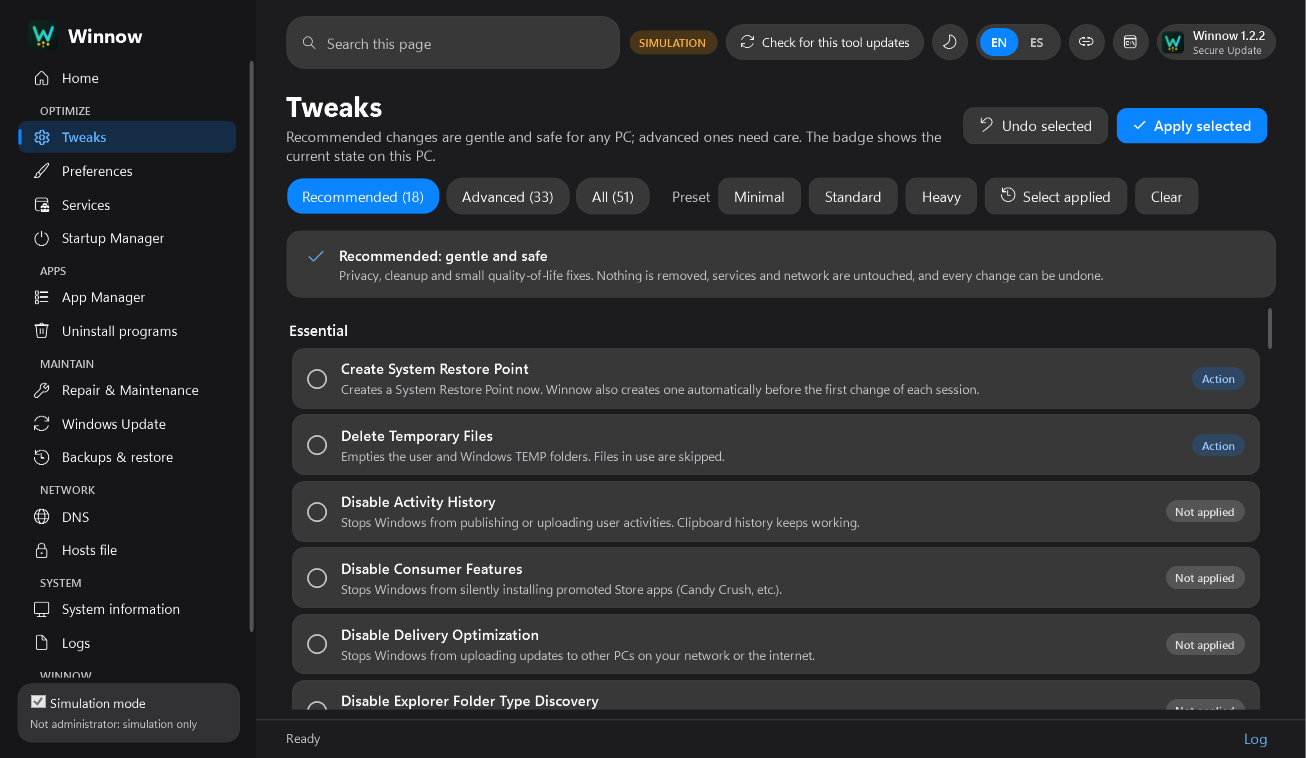
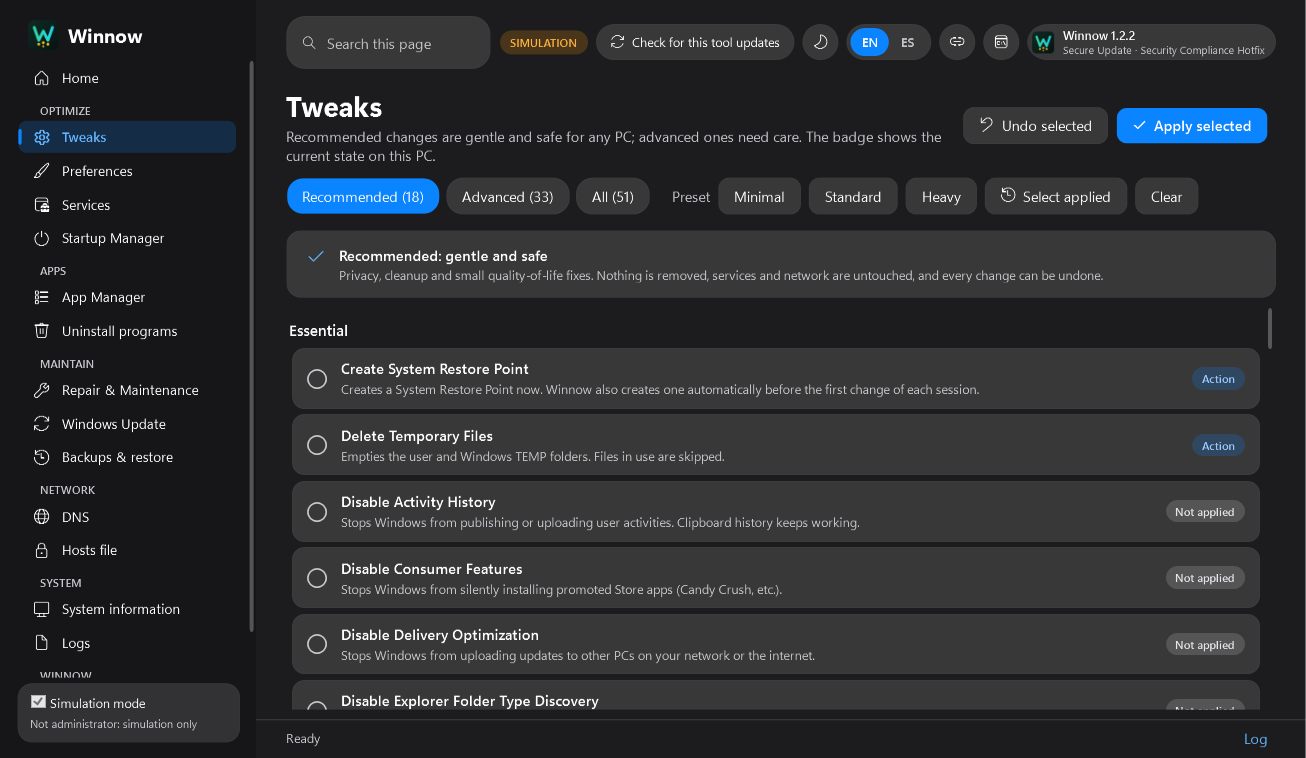
Winnow 1.2.2: full name Security Compliance Hotfix in the app
The version label, the window title, the terminal header and About read
Secure Update · Security Compliance Hotfix. About's version line wraps.

Changed region(s): [[0.3675, 0.0, 0.9801, 0.091]]

diff --git a/CHANGELOG.md b/CHANGELOG.md
@@ -13,6 +13,8 @@ All notable changes to Winnow are listed here. The format follows
 
 The terminal edition and the graphical interface are both **1.2.2 Secure Update**. It also ships everything
 from 1.2 Exit & Launcher Update, which was not published on its own.
+The window, the terminal and About show the full name **Secure Update · Security Compliance Hotfix**; a long
+version line in About now wraps instead of running under its buttons.
 
 ### Added
 - **Update panel in the window**: the update button opens a panel over the window with an animation for each
